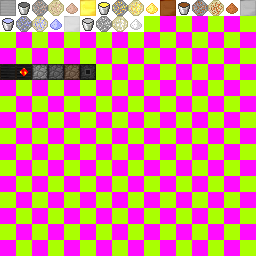
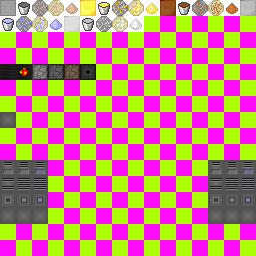
Working on iside inventory and sided textures for the grinders

Changed region(s): [[0.8125, 0.625, 1.0, 0.875], [0.0, 0.625, 0.1875, 0.875], [0.0, 0.4375, 0.0625, 0.5]]

diff --git a/Blocks/BlockGrinder1.java b/Blocks/BlockGrinder1.java
@@ -2,6 +2,8 @@ package LM.Blocks;
 
 import java.util.Random;
 
+import buildcraft.api.tools.IToolWrench;
+
 import LM.CommonProxy;
 import LM.GuiHandler;
 import LM.LM_Main;
@@ -9,16 +11,19 @@ import net.minecraft.src.BlockContainer;
 import net.minecraft.src.CreativeTabs;
 import net.minecraft.src.EntityItem;
 import net.minecraft.src.EntityPlayer;
+import net.minecraft.src.Item;
 import net.minecraft.src.ItemStack;
 import net.minecraft.src.Material;
 import net.minecraft.src.NBTTagCompound;
 import net.minecraft.src.TileEntity;
 import net.minecraft.src.TileEntityFurnace;
 import net.minecraft.src.World;
+import net.minecraftforge.common.ForgeDirection;
 
 public class BlockGrinder1 extends BlockContainer{
 	
 	private Random grinderRandom = new Random();
+	protected int textureOffset = 0;
 	
 	public BlockGrinder1(int par1) {
 		super(par1, Material.iron);
@@ -35,6 +40,16 @@ public class BlockGrinder1 extends BlockContainer{
 	@Override
 	public boolean onBlockActivated(World world, int x, int y, int z, EntityPlayer entityplayer, int par6, float par7, float par8, float par9) {
 		super.onBlockActivated(world, x, y, z, entityplayer, par6, par7, par8, par9);
+		
+		// Switch orientation if whacked with a wrench.
+		Item equipped = entityplayer.getCurrentEquippedItem() != null ? entityplayer.getCurrentEquippedItem().getItem() : null;
+		if (equipped instanceof IToolWrench && ((IToolWrench) equipped).canWrench(entityplayer, x, y, z)) {
+
+			world.setBlockMetadata(x, y, z, (world.getBlockMetadata(x, y, z)+1)%4);
+			((IToolWrench) equipped).wrenchUsed(entityplayer, x, y, z);
+			return true;
+		}
+		
 		if (entityplayer.isSneaking())
 			return false;
 
@@ -55,10 +70,111 @@ public class BlockGrinder1 extends BlockContainer{
 		return new TileGrinder1();
 	}
 
-	@Override
-	public int getBlockTextureFromSide(int par1) {
-		return 66;
+	public static ForgeDirection metaToForgeDir(int meta) {
+		if(meta == 0) {
+			return ForgeDirection.NORTH;
+		}
+		if(meta == 1) {
+			return ForgeDirection.SOUTH;
+		}
+		if(meta == 2) {
+			return ForgeDirection.EAST;
+		}
+		if(meta == 3) {
+			return ForgeDirection.WEST;
+		}
+		return null;
 	}
+	
+	private int getTextureLoc(int side, int meta) {
+		if(side == 0 || side == 1) {
+			return 208;
+		}
+		ForgeDirection dir = metaToForgeDir(meta);
+		System.out.println(dir);
+		if(dir == ForgeDirection.NORTH) {
+			//north
+			if(side == 2) {
+				//back
+				return 160;
+			}
+			if(side == 3) {
+				//front
+				return 192;
+			}
+			if(side == 4) {
+				//left
+				return 176;
+			}
+			if(side == 5) {
+				//right
+				return 176;
+			}
+		}
+		if(dir == ForgeDirection.SOUTH) {
+			//south
+			if(side == 3) {
+				//front
+				return 160;
+			}
+			if(side == 2) {
+				//back
+				return 192;
+			}
+			if(side == 4) {
+				//left
+				return 176;
+			}
+			if(side == 5) {
+				//right
+				return 176;
+			}
+		}
+		if(dir == ForgeDirection.EAST) {
+			//east
+			if(side == 5) {
+				//back
+				return 160;
+			}
+			if(side == 4) {
+				//front
+				return 192;
+			}
+			if(side == 3) {
+				//left
+				return 176;
+			}
+			if(side == 2) {
+				//right
+				return 176;
+			}
+		}
+		if(dir == ForgeDirection.WEST) {
+			//west
+			if(side == 4) {
+				//back
+				return 160;
+			}
+			if(side == 5) {
+				//front
+				return 192;
+			}
+			if(side == 2) {
+				//left
+				return 176;
+			}
+			if(side == 3) {
+				//right
+				return 176;
+			}
+		}
+		return 0;
+	}
+	
+	public int getBlockTextureFromSideAndMetadata(int side, int meta)
+    {
+		return getTextureLoc(side, meta)+textureOffset;
+    }
 	
 	public void breakBlock(World par1World, int par2, int par3, int par4, int par5, int par6)
     {

diff --git a/Blocks/TileGrinder1.java b/Blocks/TileGrinder1.java
@@ -4,6 +4,8 @@ import net.minecraft.src.EntityPlayer;
 import net.minecraft.src.IInventory;
 import net.minecraft.src.ItemStack;
 import net.minecraft.src.NBTTagCompound;
+import net.minecraftforge.common.ForgeDirection;
+import net.minecraftforge.common.ISidedInventory;
 import LM.CommonProxy;
 import LM.DEFAULT_SETTINGS;
 import LM.GrinderRecipe;
@@ -17,7 +19,7 @@ import buildcraft.core.TileBuildCraft;
 import buildcraft.core.network.PacketPayload;
 import buildcraft.core.network.PacketUpdate;
 
-public class TileGrinder1 extends TileBuildCraft implements IInventory, IPowerReceptor{
+public class TileGrinder1 extends TileBuildCraft implements IInventory, IPowerReceptor, ISidedInventory{
 	public ItemStack[] inventory = new ItemStack[2];
 	public int cookTime = 0;
 	public boolean hasUpdate = false;
@@ -265,5 +267,20 @@ public class TileGrinder1 extends TileBuildCraft implements IInventory, IPowerRe
 	@Override
 	public int powerRequest() {
 		return (int) Math.ceil(Math.min(getPowerProvider().getMaxEnergyReceived(), getPowerProvider().getMaxEnergyStored() - getPowerProvider().getEnergyStored()));
+	}
+
+	@Override
+	public int getStartInventorySide(ForgeDirection side) {
+		// TODO Auto-generated method stub
+		return 0;
+	}
+
+	@Override
+	public int getSizeInventorySide(ForgeDirection side) {
+		int meta = getBlockMetadata();
+		if(side == BlockGrinder1.metaToForgeDir(meta)) {
+			return 1;
+		}
+		return 0;
 	}
 }

diff --git a/Blocks/BlockIngotFormer.java b/Blocks/BlockIngotFormer.java
@@ -28,7 +28,7 @@ public class BlockIngotFormer extends BlockContainer{
 
 	@Override
 	public String getTextureFile() {
-		return "/LM/gfx/LiquidMetal/icons.png";
+		return "/LM/gfx/LiquidMetal/Icons.png";
 	}
 	
 	@Override
@@ -44,7 +44,7 @@ public class BlockIngotFormer extends BlockContainer{
 
 		if (!CommonProxy.proxy.isRenderWorld(world)) {
 			entityplayer.openGui(LM_Main.instance, GuiHandler.IngotFormer, world, x, y, z);
-			return true;
+			return true;	
 		}
 		
 		return true;

diff --git a/Blocks/BlockGrinder2.java b/Blocks/BlockGrinder2.java
@@ -11,6 +11,7 @@ public class BlockGrinder2 extends BlockGrinder1 {
 	public BlockGrinder2(int par1) {
 		super(par1);
 		this.setBlockName("MediumGrinder");
+		textureOffset = 1;
 	}
 	
 	public void openGui(World world, int x, int y, int z, EntityPlayer entityplayer) {

diff --git a/Blocks/BlockGrinder3.java b/Blocks/BlockGrinder3.java
@@ -11,6 +11,7 @@ public class BlockGrinder3 extends BlockGrinder1 {
 	public BlockGrinder3(int par1) {
 		super(par1);
 		this.setBlockName("LargeGrinder");
+		textureOffset = 2;
 	}
 	
 	public void openGui(World world, int x, int y, int z, EntityPlayer entityplayer) {
